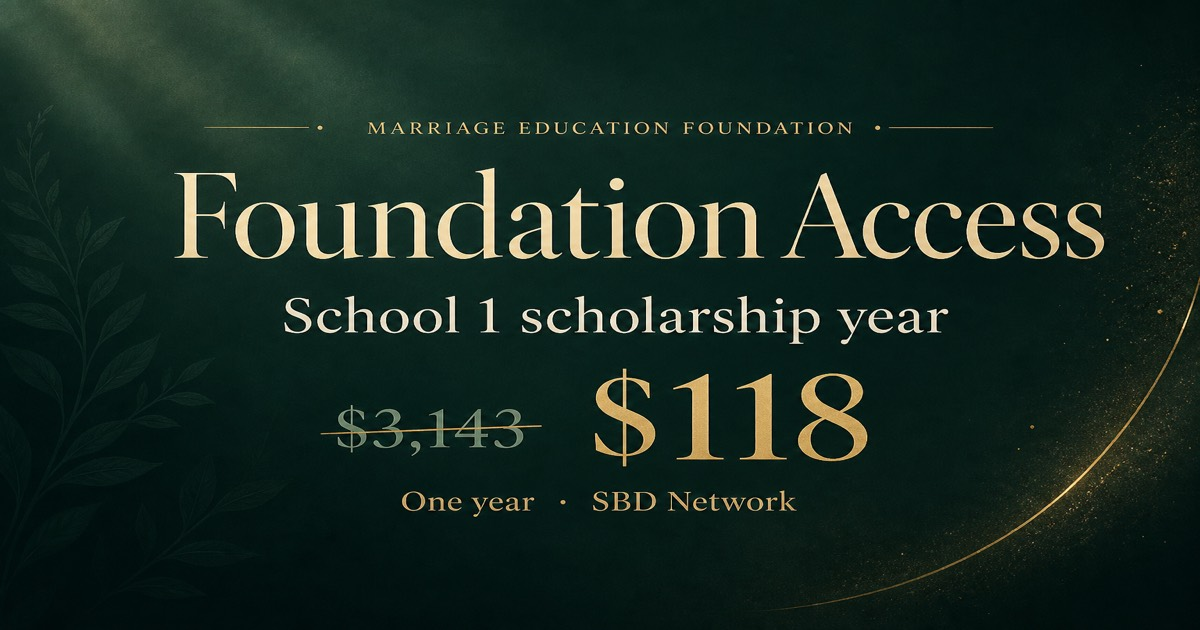
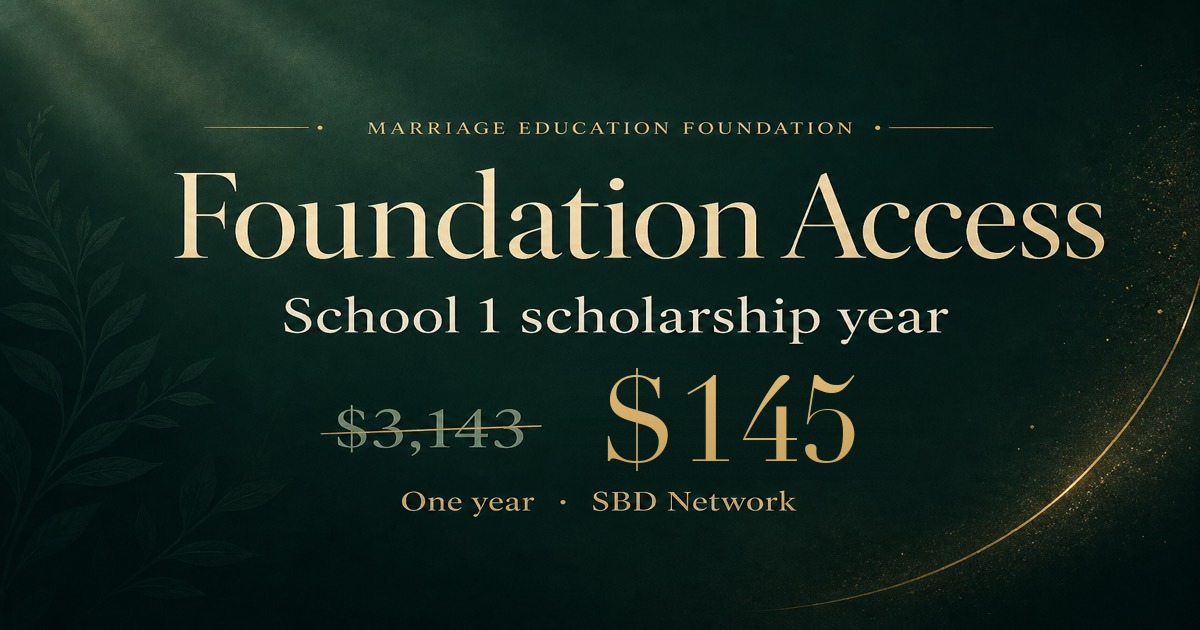
🔧 FIX: Update Foundation Access share image from $118 to $145

Changed region(s): [[0.4933, 0.573, 0.74, 0.754]]

diff --git a/public/foundation-access.html b/public/foundation-access.html
@@ -11,7 +11,7 @@
   <meta property="og:url" content="https://marriageducation.com/foundation-access.html">
   <meta property="og:title" content="Foundation Access — $3,143 stack for $145">
   <meta property="og:description" content="One scholarship year: Teleios Blueprint, SBD for Dummies course, and progressive School 1 on SBD Network.">
-  <meta property="og:image" content="https://marriageducation.com/images/foundation-access-og.jpg">
+  <meta property="og:image" content="https://marriageducation.com/images/foundation-access-og.jpg?v=145">
   <meta property="og:image:width" content="1200">
   <meta property="og:image:height" content="630">
   <meta property="og:site_name" content="Marriage Education">
@@ -19,7 +19,7 @@
   <meta name="twitter:card" content="summary_large_image">
   <meta name="twitter:title" content="Foundation Access — $3,143 → $145">
   <meta name="twitter:description" content="Scholarship year of Foundation formation on SBD Network.">
-  <meta name="twitter:image" content="https://marriageducation.com/images/foundation-access-og.jpg">
+  <meta name="twitter:image" content="https://marriageducation.com/images/foundation-access-og.jpg?v=145">
 
   <meta name="robots" content="index, follow">
   <meta name="theme-color" content="#0a3d32">
